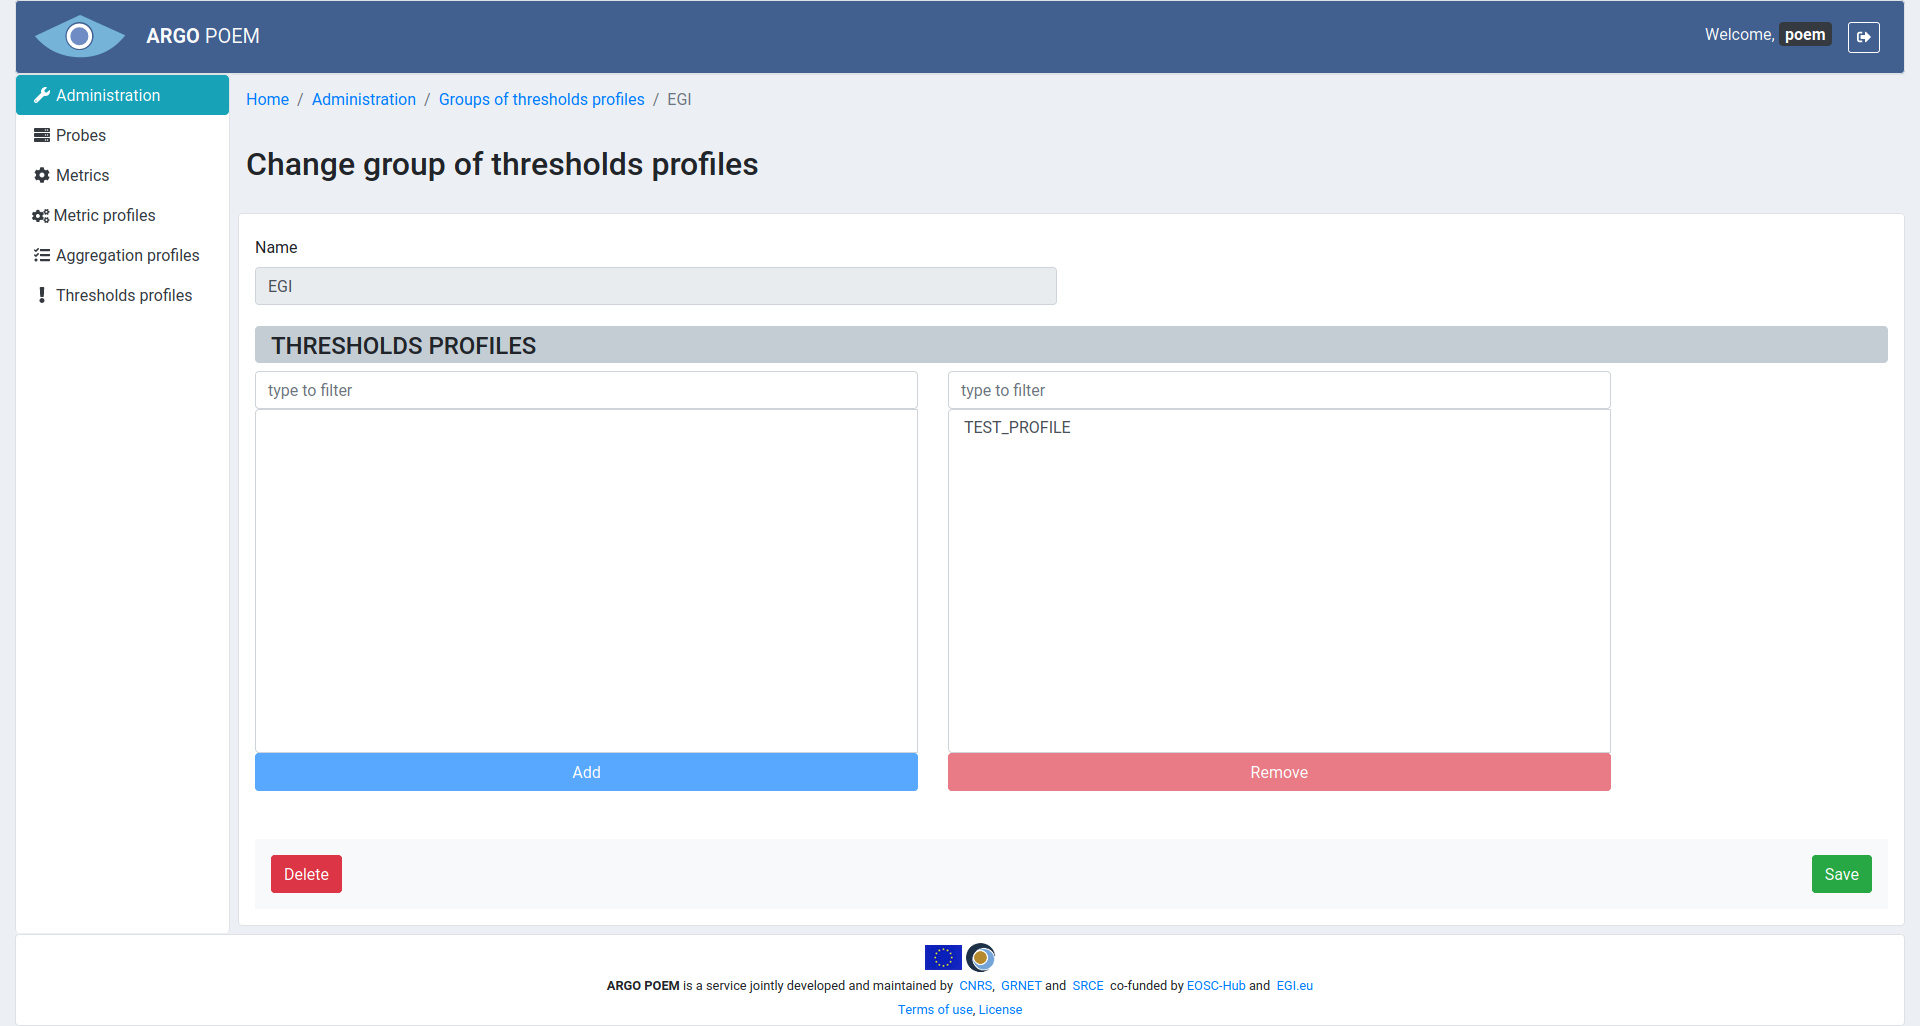
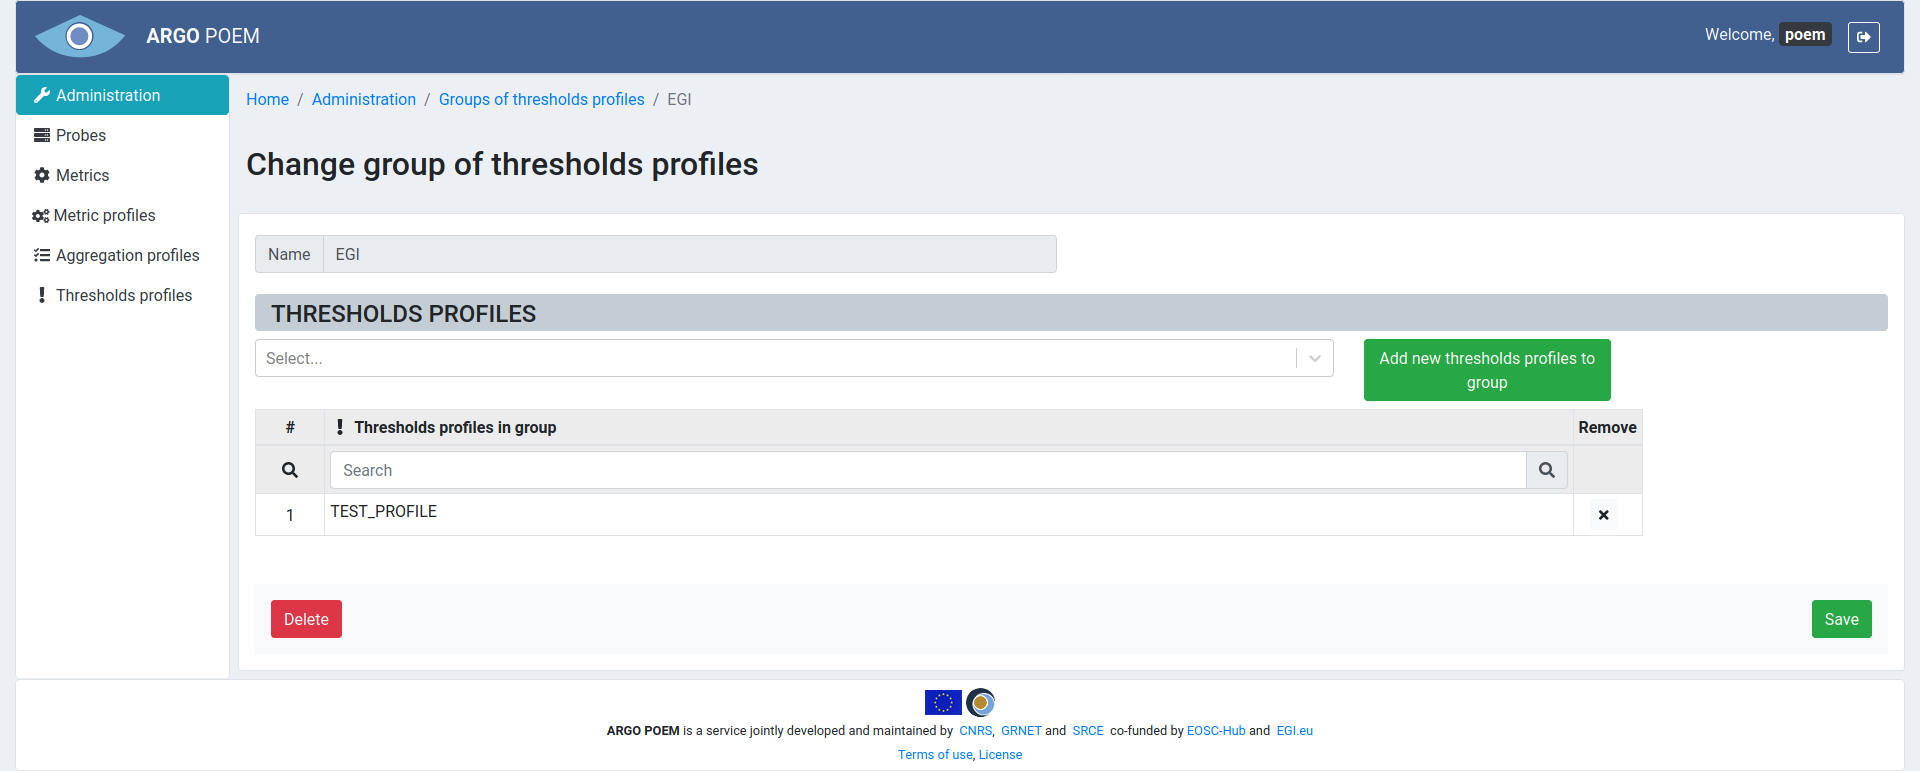
new description and figures of groups of resources

diff --git a/doc/v1/docs/tenant_groups_of_resources.md b/doc/v1/docs/tenant_groups_of_resources.md
@@ -27,4 +27,4 @@ Images of groups of resources are shown below in respective sections.
 
 Once the page of the particular group of resource is opened, there are two sections. In the first section, the name is defined, and once it's defined, it is no longer possible to change it.
 
-Second section consists of two windows. The left one shows the resources not assigned to any group. Among those resources, user can select those he wants to add to the group. The right one shows resources that belong to the group, and in that window, user may select the ones (s)he wants to remove from the group.
+In second section there is a table of resources associated with the particular group. There is also a multiple select field, where user can search for a resource with no group assigned and asign it to the particular group. User may select multiple resources, and by clicking the green button, they are added to the table below.
